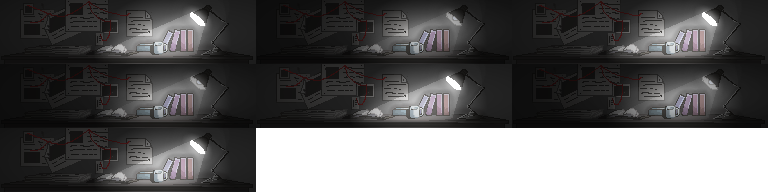
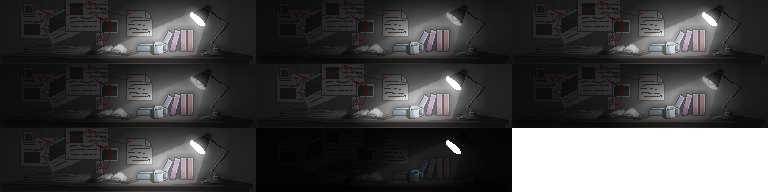
Feature: Update title screen

Changed region(s): [[0.3125, 0.6562, 0.6875, 1.0]]

diff --git a/src/game/main_menu.go b/src/game/main_menu.go
@@ -26,7 +26,6 @@ type Main_Menu_Scene struct {
 	TitleText        *Text
 	SubtitleText     *Text
 	SubtitleFader    *effects.Fader
-	ShowDesk         bool
 	ShowMenuTexts    bool
 	DeskAnim         *AnimationPlayer
 	Flickering       bool
@@ -72,11 +71,13 @@ func NewMainMenuScene(gameState *Game_State) *Main_Menu_Scene {
 	scaleDesk := float64(min(conf.GAME_W/deskFrameW, conf.GAME_H/deskFrameH))
 
 	scene.DeskAnim = NewAnimationPlayer(resDesk.Data)
+	scene.DeskAnim.AddStateAnimation("static", deskFrameW, 128, deskFrameW, deskFrameH, 1, false)
 	scene.DeskAnim.AddStateAnimation("row1", 0, 0, deskFrameW, deskFrameH, assets.SheetDeskFrameData.MaxCols, false)
 	scene.DeskAnim.AddStateAnimation("row2", 0, 64, deskFrameW, deskFrameH, assets.SheetDeskFrameData.MaxCols, false)
 	scene.DeskAnim.AddStateAnimation("row3", 0, 128, deskFrameW, deskFrameH, 1, false)
 	scene.DeskAnim.SetFPS(7)
-	scene.DeskAnim.SetStateReset("row1")
+	scene.DeskAnim.SetStateReset("static")
+	scene.DeskAnim.DIO.ColorScale.ScaleAlpha(0)
 
 	scene.DeskAnim.DIO.GeoM.Scale(scaleDesk, scaleDesk)
 	scene.DeskAnim.DIO.GeoM.Translate(
@@ -99,12 +100,6 @@ func NewMainMenuScene(gameState *Game_State) *Main_Menu_Scene {
 		baseY += newTxt.DO.LineSpacing
 	}
 
-	waitFor := utils.IntRandRange(1, 3)
-	scene.CurrentStateName = "waiting flicker... " + strconv.Itoa(waitFor)
-	scene.TimerSys.After(time.Second*time.Duration(waitFor), func() {
-		scene.RandomFlicker()
-	})
-
 	sceneRoutine := routine.New()
 	sceneRoutine.Define(
 		"main menu scene",
@@ -112,6 +107,11 @@ func NewMainMenuScene(gameState *Game_State) *Main_Menu_Scene {
 			scene.CurrentStateName = "title text animation"
 			if scene.GameState.SceneManager.IsFadeInFinished() {
 				scene.SubtitleFader.Stopped = false
+
+				scene.DeskAnim.SetStateReset("static")
+				utils.DIOReplaceAlpha(scene.DeskAnim.DIO, 1)
+				scene.DeskAnim.Update()
+
 				return routine.FlowNext
 			}
 			return routine.FlowIdle
@@ -122,8 +122,10 @@ func NewMainMenuScene(gameState *Game_State) *Main_Menu_Scene {
 				scene.CurrentStateName = "showing menu..."
 				scene.SubtitleFader.Alpha = 0
 				scene.SubtitleFader.Stopped = true
-				scene.TitleText.SetAlpha(0)
-				scene.ShowDesk = true
+
+				utils.DOReplaceAlpha(scene.TitleText.DO, 0)
+				scene.DeskAnim.SetStateReset("row1")
+				scene.DeskAnim.Update()
 
 				return routine.FlowNext
 			}
@@ -143,6 +145,13 @@ func NewMainMenuScene(gameState *Game_State) *Main_Menu_Scene {
 		actions.NewFunction(func(block *routine.Block) routine.Flow {
 			scene.CurrentStateName = "finished"
 			scene.ShowMenuTexts = true
+
+			waitFor := utils.IntRandRange(1, 3)
+			scene.CurrentStateName = "waiting flicker... " + strconv.Itoa(waitFor)
+			scene.TimerSys.After(time.Second*time.Duration(waitFor), func() {
+				scene.RandomFlicker()
+			})
+
 			return routine.FlowIdle
 		}),
 	)
@@ -158,7 +167,7 @@ func (scene *Main_Menu_Scene) RandomFlicker() {
 		scene.CurrentStateName = "flickering"
 		scene.DeskAnim.SetFPS(float64(utils.IntRandRange(4, 8)))
 	} else {
-		waitFor := utils.IntRandRange(1, 3)
+		waitFor := utils.IntRandRange(2, 4)
 		scene.CurrentStateName = "waiting flicker... " + strconv.Itoa(waitFor)
 		scene.TimerSys.After(time.Second*time.Duration(waitFor), func() {
 			scene.RandomFlicker()
@@ -171,23 +180,19 @@ func (scene *Main_Menu_Scene) Update() error {
 	scene.TimerSys.Update()
 	scene.Routine.Update()
 
-	if !scene.ShowDesk {
-		scene.SubtitleFader.Update()
-		scene.SubtitleText.DO.ColorScale = *scene.SubtitleFader.GetCS()
-	}
+	scene.SubtitleFader.Update()
+	scene.SubtitleText.DO.ColorScale = *scene.SubtitleFader.GetCS()
 
-	if scene.ShowDesk {
-		if scene.Flickering {
-			scene.DeskAnim.Update()
-			if scene.DeskAnim.IsInLastFrame() {
-				switch scene.DeskAnim.State() {
-				case "row1":
-					scene.DeskAnim.SetStateReset("row2")
-				case "row2":
-					scene.DeskAnim.SetStateReset("row3")
-				case "row3":
-					scene.RandomFlicker()
-				}
+	if scene.Flickering {
+		scene.DeskAnim.Update()
+		if scene.DeskAnim.IsInLastFrame() {
+			switch scene.DeskAnim.State() {
+			case "row1":
+				scene.DeskAnim.SetStateReset("row2")
+			case "row2":
+				scene.DeskAnim.SetStateReset("row3")
+			case "row3":
+				scene.RandomFlicker()
 			}
 		}
 	}
@@ -205,14 +210,9 @@ func (scene *Main_Menu_Scene) Update() error {
 }
 
 func (scene *Main_Menu_Scene) Draw(screen *ebiten.Image) {
-	if scene.ShowDesk {
-		screen.DrawImage(scene.DeskAnim.CurrentFrame, scene.DeskAnim.DIO)
-	}
-
-	if !scene.ShowDesk {
-		scene.TitleText.Draw(screen)
-		scene.SubtitleText.Draw(screen)
-	}
+	screen.DrawImage(scene.DeskAnim.CurrentFrame, scene.DeskAnim.DIO)
+	scene.TitleText.Draw(screen)
+	scene.SubtitleText.Draw(screen)
 
 	if scene.ShowMenuTexts {
 		for i, txt := range scene.Texts {

diff --git a/src/utils/color.go b/src/utils/color.go
@@ -1,0 +1,16 @@
+package utils
+
+import (
+	"github.com/hajimehoshi/ebiten/v2"
+	"github.com/hajimehoshi/ebiten/v2/text/v2"
+)
+
+func DIOReplaceAlpha(DIO *ebiten.DrawImageOptions, a float32) {
+	DIO.ColorScale = ebiten.ColorScale{}
+	DIO.ColorScale.ScaleAlpha(a)
+}
+
+func DOReplaceAlpha(DO *text.DrawOptions, a float32) {
+	DO.ColorScale = ebiten.ColorScale{}
+	DO.ColorScale.ScaleAlpha(a)
+}

diff --git a/src/game/text.go b/src/game/text.go
@@ -50,10 +50,6 @@ func (txt *Text) SetColor(r, g, b, a float32) {
 	txt.DO.ColorScale.SetA(a)
 }
 
-func (txt *Text) SetAlpha(a float32) {
-	txt.DO.ColorScale.ScaleAlpha(a)
-}
-
 func (txt *Text) SetAlign(pa, sa text.Align) {
 	txt.DO.PrimaryAlign = pa
 	txt.DO.SecondaryAlign = sa
